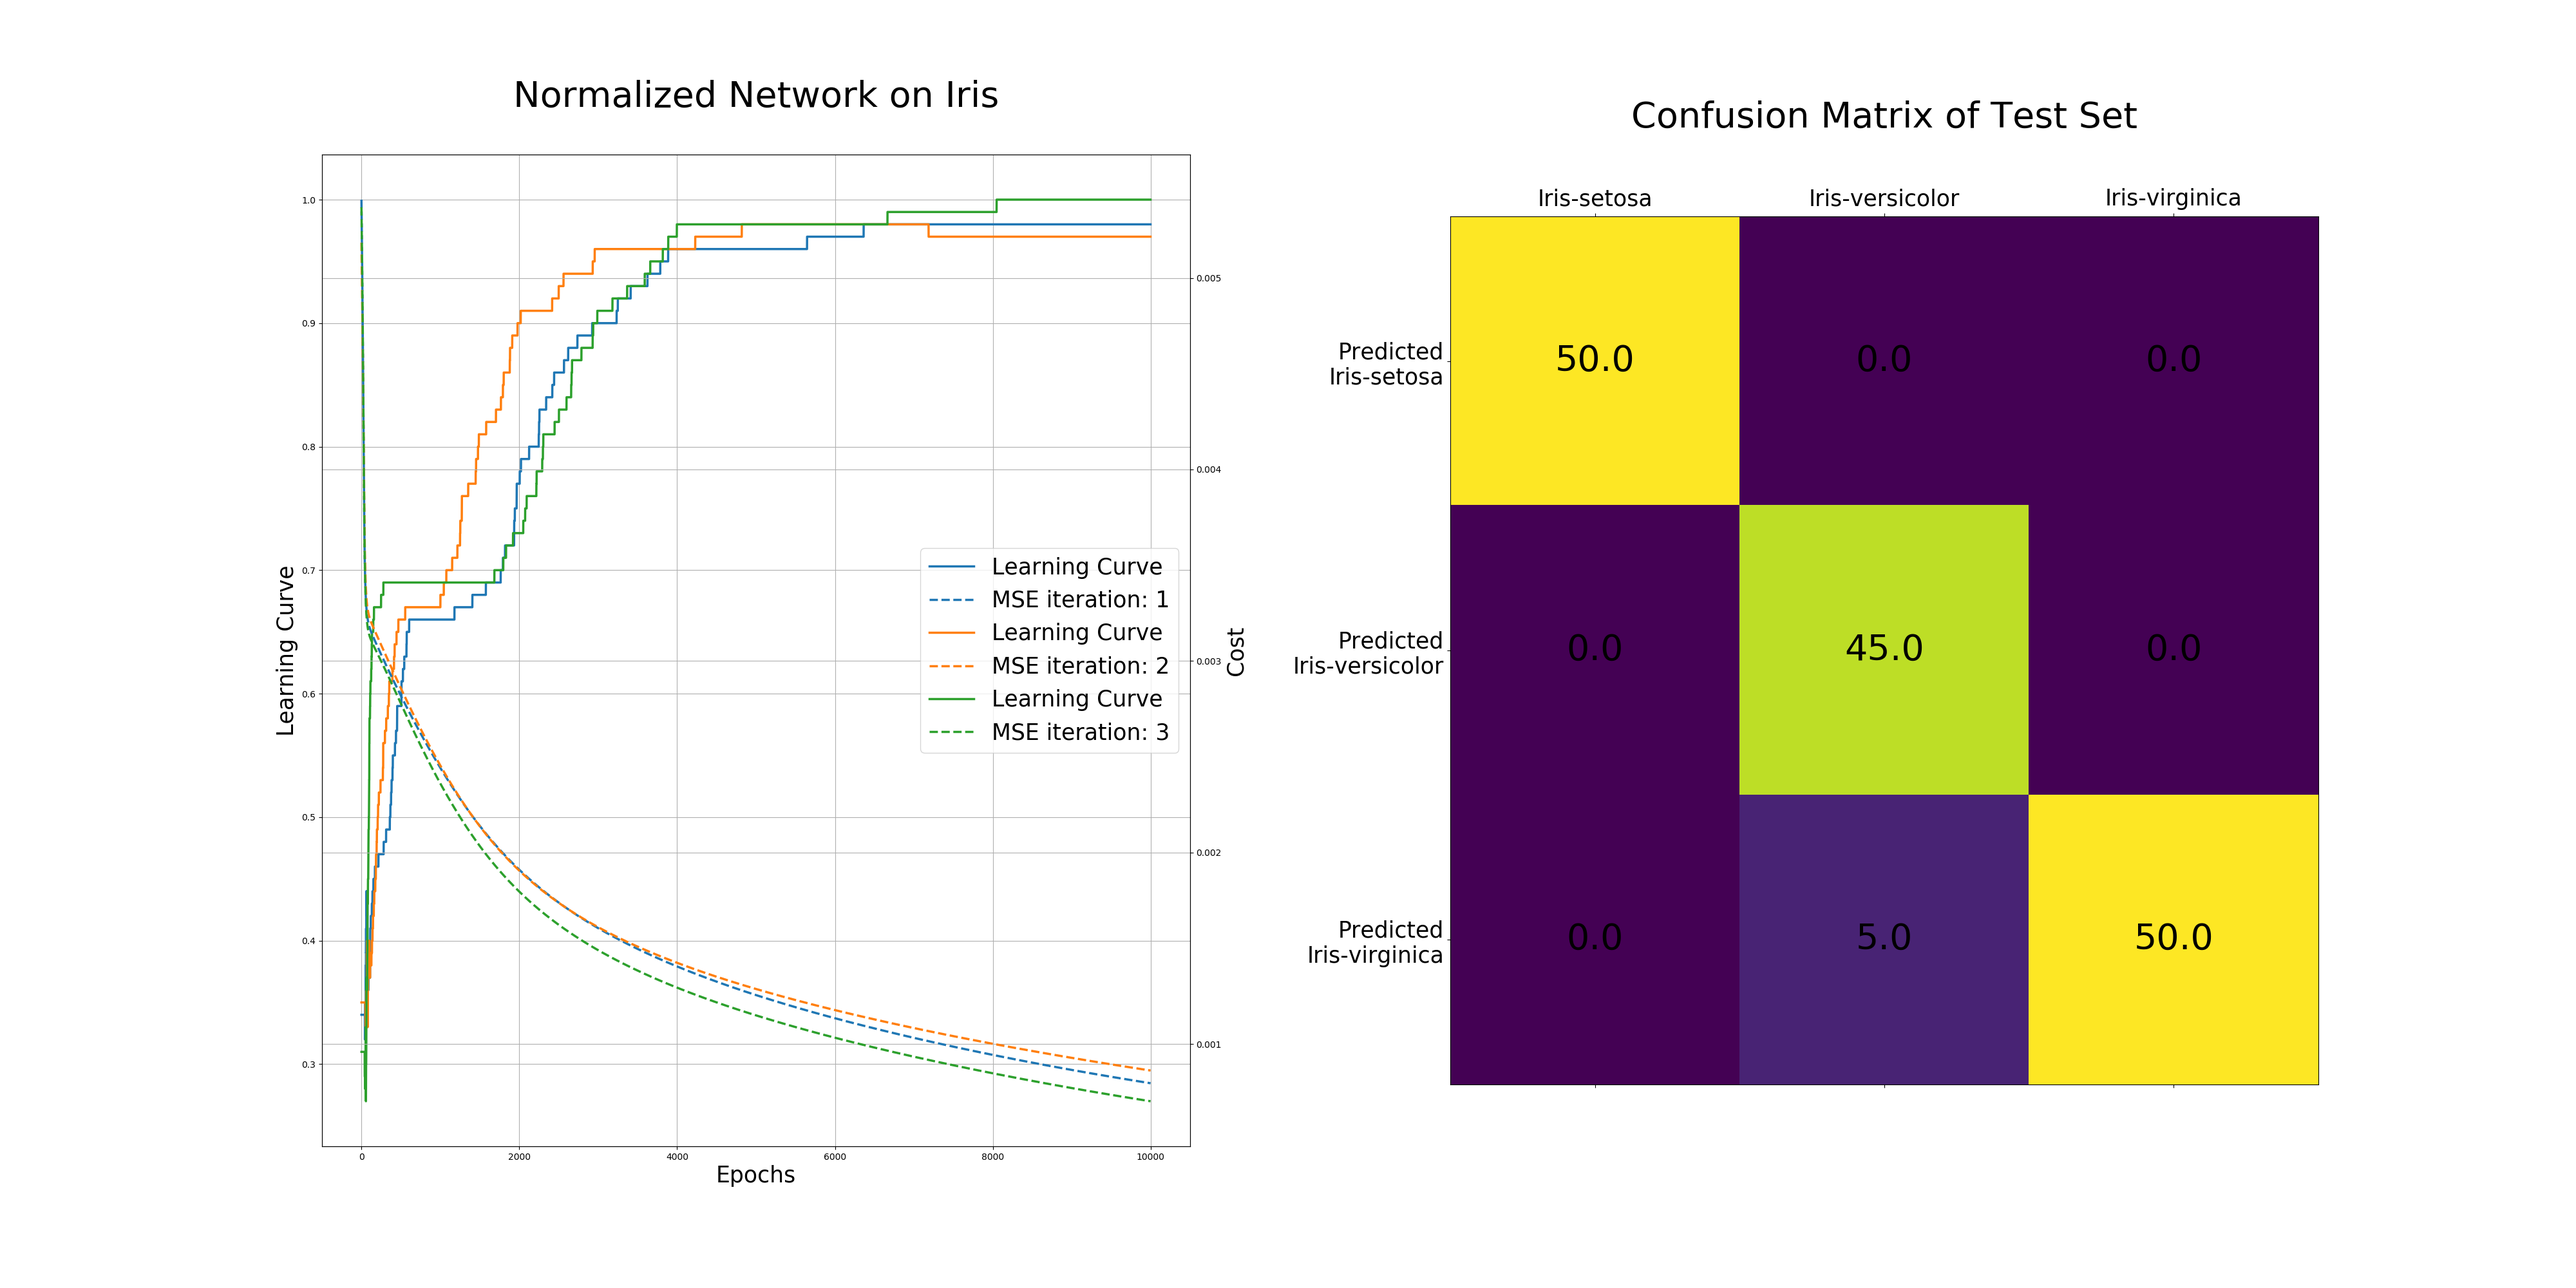
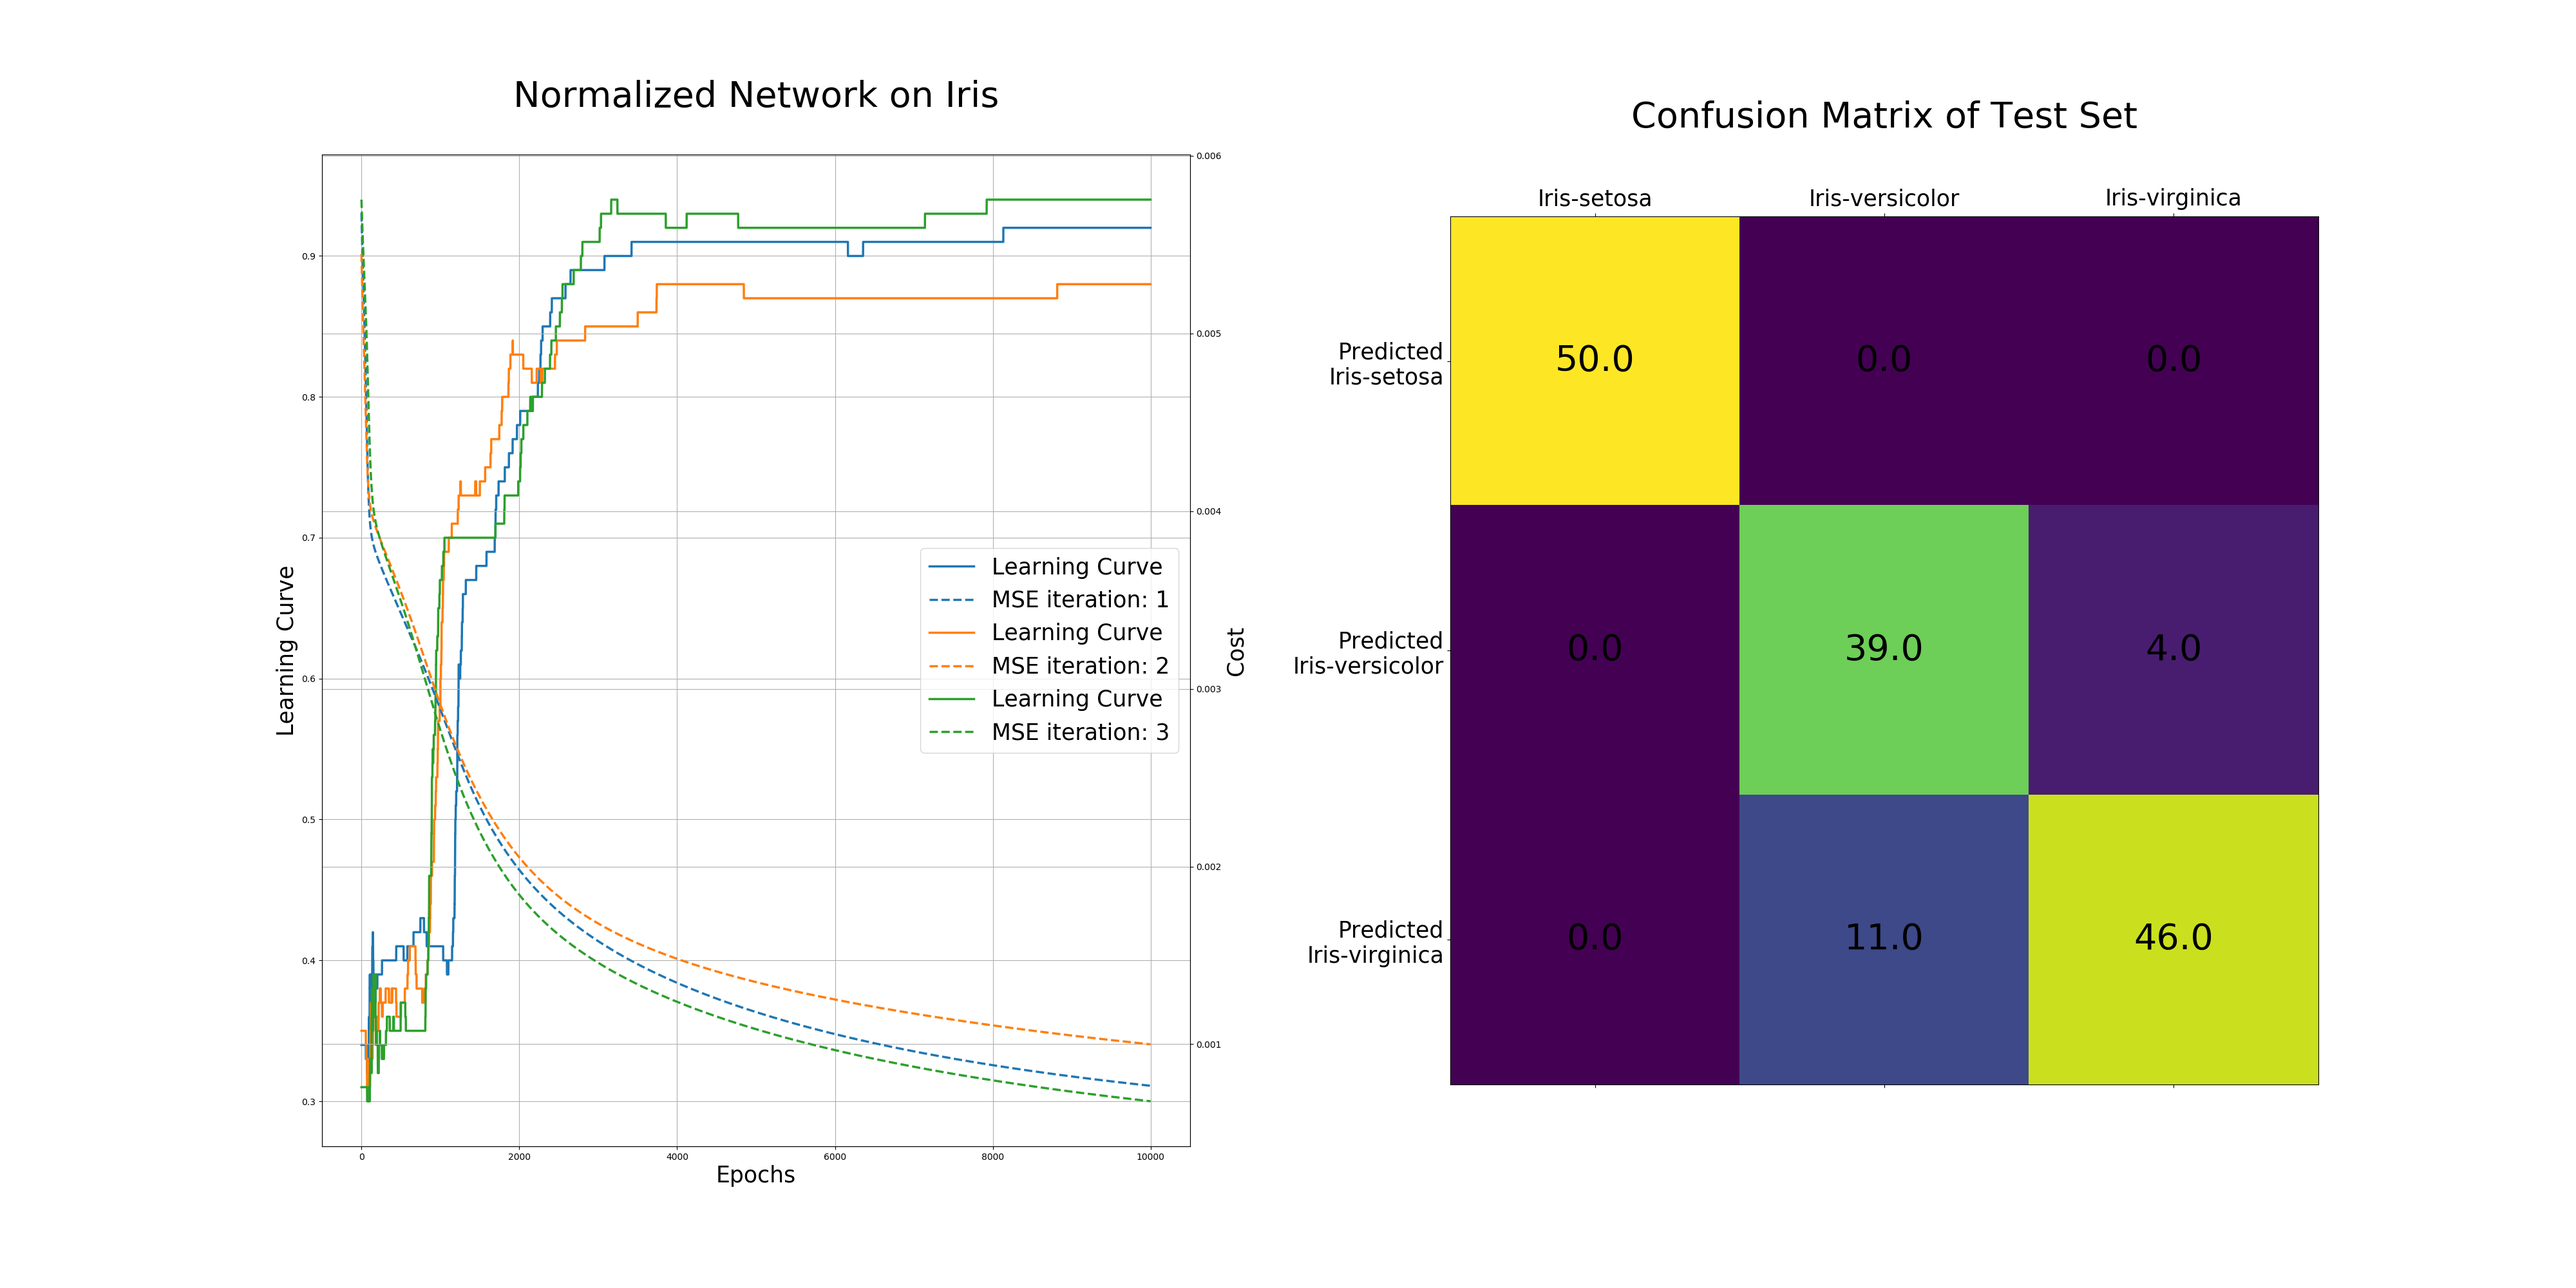
Normalized corrected (max and min per variable)

diff --git a/tests/test_neural_network/test_normalize.py b/tests/test_neural_network/test_normalize.py
@@ -17,57 +17,41 @@ class NormalizeTest(TestCase):
         self.x_input = np.random.uniform(D_L, D_H, (50, 1000))
         self.network = NormalizedNetwork(50, [], 2, ["sigmoid"], 0.1)
         self.network_no_norm = NeuralNetwork(50, [], 2, ["sigmoid"], 0.1)
-        self.network_no_norm.layers = self.network.layers
+        self.network_no_norm.layers = self.network.layers.copy()
 
     def test_normalize(self):
         norm_input = self.network._normalize(self.x_input)
-        assert self.x_input.max() <= D_H
-        assert self.x_input.min() >= D_L
-        assert norm_input.max() <= N_H
-        assert norm_input.min() >= N_L
+        assert (self.x_input.max(axis=-1) <= D_H).all()
+        assert (self.x_input.min(axis=-1) >= D_L).all()
+        assert (norm_input.max(axis=-1) <= N_H).all()
+        assert (norm_input.min(axis=-1) >= N_L).all()
         assert norm_input.shape == self.x_input.shape
-        expected = abs(
-            self.x_input[-1, -1] - self.x_input[0, 0]
-        ) / abs(
-            norm_input[-1, -1] - norm_input[0, 0]
-        )
+        expected = np.abs(self.x_input[..., -1] - self.x_input[..., 0]
+                          ) / np.abs(norm_input[..., -1] - norm_input[..., 0])
         for _ in range(RANDOM_TESTS):
-            i1 = randint(0, 50 - 1)
-            j1 = randint(0, 1000 - 1)
-            i2 = randint(0, 50 - 1)
-            j2 = randint(0, 1000 - 1)
-            actual = abs(
-                self.x_input[i1, j1] - self.x_input[i2, j2]
-            ) / abs(
-                norm_input[i1, j1] - norm_input[i2, j2]
-            )
-            assert abs(actual - expected) < EPSILON
+            i = randint(0, 50 - 1)
+            j = randint(0, 50 - 1)
+            actual = np.abs(self.x_input[..., i] - self.x_input[..., j]
+                            ) / np.abs(norm_input[..., i] - norm_input[..., j])
+            assert (np.abs(actual - expected) < EPSILON).all()
 
     def test_denormalize(self):
         norm_input = self.network._normalize(self.x_input)
         origin_input = self.network._denormalize(norm_input)
         assert (np.abs(origin_input - self.x_input) < EPSILON).all()
-        assert origin_input.max() <= D_H
-        assert origin_input.min() >= D_L
-        assert norm_input.max() <= N_H
-        assert norm_input.min() >= N_L
+        assert (origin_input.max(axis=-1) <= D_H).all()
+        assert (origin_input.min(axis=-1) >= D_L).all()
+        assert (norm_input.max(axis=-1) <= N_H).all()
+        assert (norm_input.min(axis=-1) >= N_L).all()
         assert norm_input.shape == self.x_input.shape
-        expected = abs(
-            origin_input[-1, -1] - origin_input[0, 0]
-        ) / abs(
-            norm_input[-1, -1] - norm_input[0, 0]
-        )
+        expected = np.abs(origin_input[..., -1] - origin_input[..., 0]
+                          ) / np.abs(norm_input[..., -1] - norm_input[..., 0])
         for _ in range(RANDOM_TESTS):
-            i1 = randint(0, 50 - 1)
-            j1 = randint(0, 1000 - 1)
-            i2 = randint(0, 50 - 1)
-            j2 = randint(0, 1000 - 1)
-            actual = abs(
-                origin_input[i1, j1] - origin_input[i2, j2]
-            ) / abs(
-                norm_input[i1, j1] - norm_input[i2, j2]
-            )
-            assert abs(actual - expected) < EPSILON
+            i = randint(0, 50 - 1)
+            j = randint(0, 50 - 1)
+            actual = np.abs(origin_input[..., i] - origin_input[..., j]
+                            ) / np.abs(norm_input[..., i] - norm_input[..., j])
+            assert (np.abs(actual - expected) < EPSILON).all()
 
     def test_feed_forward(self):
         expected = self.network_no_norm.feed_forward(

diff --git a/code/neural_network/normalized_network.py b/code/neural_network/normalized_network.py
@@ -18,8 +18,12 @@ class NormalizedNetwork(NeuralNetwork):
         )
 
     def _normalize(self, x_input: np.ndarray) -> np.ndarray:
-        self.d_l = x_input.min()
-        self.d_h = x_input.max()
+        self.d_l = x_input.min(axis=-1)
+        self.d_h = x_input.max(axis=-1)
+        if self.d_h.ndim == 1:
+            self.d_h = self.d_h.reshape(-1, 1)
+        if self.d_l.ndim == 1:
+            self.d_l = self.d_l.reshape(-1, 1)
         a = N_H - N_L
         b = self.d_h - self.d_l
         return (a / b) * (x_input - self.d_l) + N_L

diff --git a/tarea1/README (Extended).md b/tarea1/README (Extended).md
@@ -250,9 +250,9 @@ Resultados obtenidos en test set (mismos que en la matriz de confusión mostrada
 
 | Clases          | *Accuracy* | *Precision* | *Recall* | *f1-score* |
 | --------------- | ---------- | ----------- | -------- | ---------- |
-| **Iris-setosa** | 1.0 | 1.0 | 1.0 | 1.0 |
-| **Iris-versicolor** | - | 1.0 | 1.0 | 1.0 |
-| **Iris-virginica** | - | 1.0 | 1.0 | 1.0 |
+| **Iris-setosa** | 0.9111 | 1.0 | 1.0 | 1.0 |
+| **Iris-versicolor** | - | 0.8571 | 0.8571 | 0.85714 |
+| **Iris-virginica** | - | 0.8571 | 0.0.8571 | 0.8571 |
 
 Ejecutable: [`tarea1/scripts/network_on_iris`](https://github.com/StarBrand/CC5114-Tareas/blob/master/tarea1/scripts/network_on_iris.py)	Argumento: `-n`
 
@@ -260,9 +260,9 @@ Ejecutable: [`tarea1/scripts/network_on_iris`](https://github.com/StarBrand/CC51
 
 | Clases          | *Accuracy* | *Precision* | *Recall* | *f1-score* |
 | --------------- | ---------- | ----------- | -------- | ---------- |
-| **Iris-setosa** | 0.9667 | 1.0 | 1.0 | 1.0 |
-| **Iris-versicolor** | - | 1.0 | 0.9 | 0.9474 |
-| **Iris-virginica** | - | 0.9091 | 1.0 | 0.9524 |
+| **Iris-setosa** | 0.9 | 1.0 | 1.0 | 1.0 |
+| **Iris-versicolor** | - | 0.9070 | 0.78 | 0.8387 |
+| **Iris-virginica** | - | 0.8070 | 0.92 | 0.8598 |
 
 Ejecutable: [`tarea1/scripts/network_on_iris`](https://github.com/StarBrand/CC5114-Tareas/blob/master/tarea1/scripts/network_on_iris.py)	Argumento: `-n -x 3`
 
@@ -270,9 +270,9 @@ Ejecutable: [`tarea1/scripts/network_on_iris`](https://github.com/StarBrand/CC51
 
 | Clases          | *Accuracy* | *Precision* | *Recall* | *f1-score* |
 | --------------- | ---------- | ----------- | -------- | ---------- |
-| **Iris-setosa** | 0.9667 | 1.0 | 1.0 | 1.0 |
-| **Iris-versicolor** | - | 0.9787 | 0.92 | 0.9485 |
-| **Iris-virginica** | - | 0.9245 | 0.98 | 0.9515 |
+| **Iris-setosa** | 0.8733 | 1.0 | 1.0 | 1.0 |
+| **Iris-versicolor** | - | 0.8163 | 0.8 | 0.8081 |
+| **Iris-virginica** | - | 0.8039 | 0.82 | 0.8119 |
 
 Ejecutable: [`tarea1/scripts/network_on_iris`](https://github.com/StarBrand/CC5114-Tareas/blob/master/tarea1/scripts/network_on_iris.py)	Argumento: `-n -x 5`
 
@@ -280,9 +280,9 @@ Ejecutable: [`tarea1/scripts/network_on_iris`](https://github.com/StarBrand/CC51
 
 | Clases          | *Accuracy* | *Precision* | *Recall* | *f1-score* |
 | --------------- | ---------- | ----------- | -------- | ---------- |
-| **Iris-setosa** | 0.96 | 1.0 | 1.0 | 1.0 |
-| **Iris-versicolor** | - | 1.0 | 0.88 | 0.9362 |
-| **Iris-virginica** | - | 0.8929 | 1.0 | 0.9434 |
+| **Iris-setosa** | 0.8467 | 1.0 | 1.0 | 1.0 |
+| **Iris-versicolor** | - | 0.8857 | 0.62 | 0.7294 |
+| **Iris-virginica** | - | 0.7077 | 0.92 | 0.8 |
 
 Ejecutable: [`tarea1/scripts/network_on_iris`](https://github.com/StarBrand/CC5114-Tareas/blob/master/tarea1/scripts/network_on_iris.py)	Argumento: `-n -x 10`
 

diff --git a/tarea1/README.md b/tarea1/README.md
@@ -168,9 +168,9 @@ Resultados obtenidos en test set (mismos que en la matriz de confusión mostrada
 
 | Clases          | *Accuracy* | *Precision* | *Recall* | *f1-score* |
 | --------------- | ---------- | ----------- | -------- | ---------- |
-| **Iris-setosa** | 1.0 | 1.0 | 1.0 | 1.0 |
-| **Iris-versicolor** | - | 1.0 | 1.0 | 1.0 |
-| **Iris-virginica** | - | 1.0 | 1.0 | 1.0 |
+| **Iris-setosa** | 0.9111 | 1.0 | 1.0 | 1.0 |
+| **Iris-versicolor** | - | 0.8571 | 0.8571 | 0.85714 |
+| **Iris-virginica** | - | 0.8571 | 0.0.8571 | 0.8571 |
 
 Ejecutable: [`tarea1/scripts/network_on_iris`](https://github.com/StarBrand/CC5114-Tareas/blob/master/tarea1/scripts/network_on_iris.py)	Argumento: `-n`
 
@@ -182,9 +182,9 @@ Resultados obtenidos en test set (mismos que en la matriz de confusión mostrada
 
 | Clases          | *Accuracy* | *Precision* | *Recall* | *f1-score* |
 | --------------- | ---------- | ----------- | -------- | ---------- |
-| **Iris-setosa** | 0.96 | 1.0 | 1.0 | 1.0 |
-| **Iris-versicolor** | - | 1.0 | 0.88 | 0.9362 |
-| **Iris-virginica** | - | 0.8929 | 1.0 | 0.9434 |
+| **Iris-setosa** | 0.8467 | 1.0 | 1.0 | 1.0 |
+| **Iris-versicolor** | - | 0.8857 | 0.62 | 0.7294 |
+| **Iris-virginica** | - | 0.7077 | 0.92 | 0.8 |
 
 Ejecutable: [`tarea1/scripts/network_on_iris`](https://github.com/StarBrand/CC5114-Tareas/blob/master/tarea1/scripts/network_on_iris.py)	Argumentos: `-n -x 10`
 
